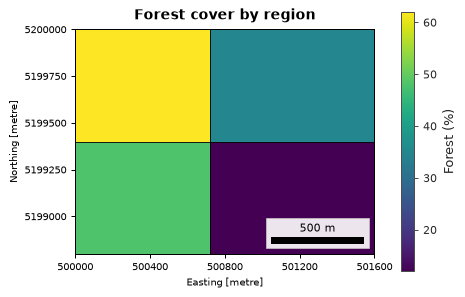
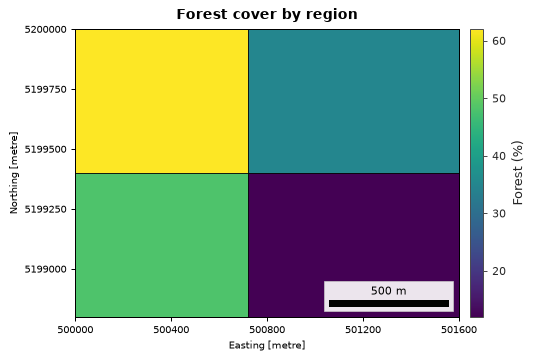
Map layout: colour bars as tall as the map, panels sized to the map's shape

Changed region(s): [[0.0, 0.0, 0.9935, 0.9697]]

diff --git a/rsgispy/mapping/layout.py b/rsgispy/mapping/layout.py
@@ -758,10 +758,17 @@ def create_map_panels(
         n_cols = min(n_cols, n_panels)
         n_rows = int(np.ceil(n_panels / n_cols))
         if figsize is None:
-            panel_h = min(max(calc_y_fig_size(bbox, _DEFAULT_PANEL_WIDTH), 2.5), 8.0)
-            cbar_w = 1.0 if any(p.show_colour_bar for p in panel_list) else 0.0
+            # Size each panel to the map's shape, so tall, narrow or wide
+            # extents don't leave large gaps between the panels.
+            panel_w = float(_DEFAULT_PANEL_WIDTH)
+            panel_h = calc_y_fig_size(bbox, panel_w)
+            if panel_h > 8.0:
+                panel_w = max(panel_w * 8.0 / panel_h, 1.5)
+                panel_h = 8.0
+            panel_h = max(panel_h, 2.5)
+            cbar_w = 0.9 if any(p.show_colour_bar for p in panel_list) else 0.0
             figsize = (
-                n_cols * _DEFAULT_PANEL_WIDTH + cbar_w,
+                n_cols * (panel_w + cbar_w),
                 n_rows * (panel_h + 0.4) + (0.4 if suptitle else 0.0),
             )
         fig, grid_axs = get_fig_axs(None, nrows=n_rows, ncols=n_cols, figsize=figsize)
@@ -772,6 +779,9 @@ def create_map_panels(
 
     for ax, panel in zip(panel_axs, panel_list):
         _draw_map_panel(ax, panel, bbox, show_map_axis)
+        # Keep every map centred in its cell (a colour bar must not pull it
+        # to one side).
+        ax.set_anchor("C")
 
     if show_scale_bar:
         add_scale_bar(

diff --git a/rsgispy/mapping/_common.py b/rsgispy/mapping/_common.py
@@ -71,12 +71,26 @@ def add_map_colour_bar(
     cbar_label: Optional[str] = None,
 ) -> Any:
     """
-    Add a colour bar for ``mappable`` beside the map axis ``ax`` (taking its
-    space from ``ax``) and return it. The colour bar is also available as
+    Add a colour bar for ``mappable`` beside the map axis ``ax`` and return
+    it. On a map (equal aspect) the bar is an inset axis exactly as tall as
+    the map; otherwise it takes its space from ``ax``. The colour bar is also available as
     ``mappable.colorbar``.
     """
     fig = ax.get_figure()
-    cbar = fig.colorbar(mappable, ax=ax, shrink=0.85, pad=0.07)
+    x_lim = ax.get_xlim()
+    y_lim = ax.get_ylim()
+    x_span = abs(x_lim[1] - x_lim[0])
+    y_span = abs(y_lim[1] - y_lim[0])
+    if ax.get_aspect() == 1.0 and x_span > 0 and y_span > 0:
+        # A map (equal aspect): draw the colour bar in an inset axis the
+        # height of the map, so it is never taller or shorter than the map
+        # whatever the figure's shape. The width is a fixed share of the
+        # map's height (capped for tall, narrow maps).
+        bar_w = min(0.045 * (y_span / x_span), 0.12)
+        cax = ax.inset_axes([1.03, 0.0, bar_w, 1.0])
+        cbar = fig.colorbar(mappable, cax=cax)
+    else:
+        cbar = fig.colorbar(mappable, ax=ax, shrink=0.85, pad=0.07)
     if cbar_label is not None:
         cbar.set_label(cbar_label)
     return cbar
